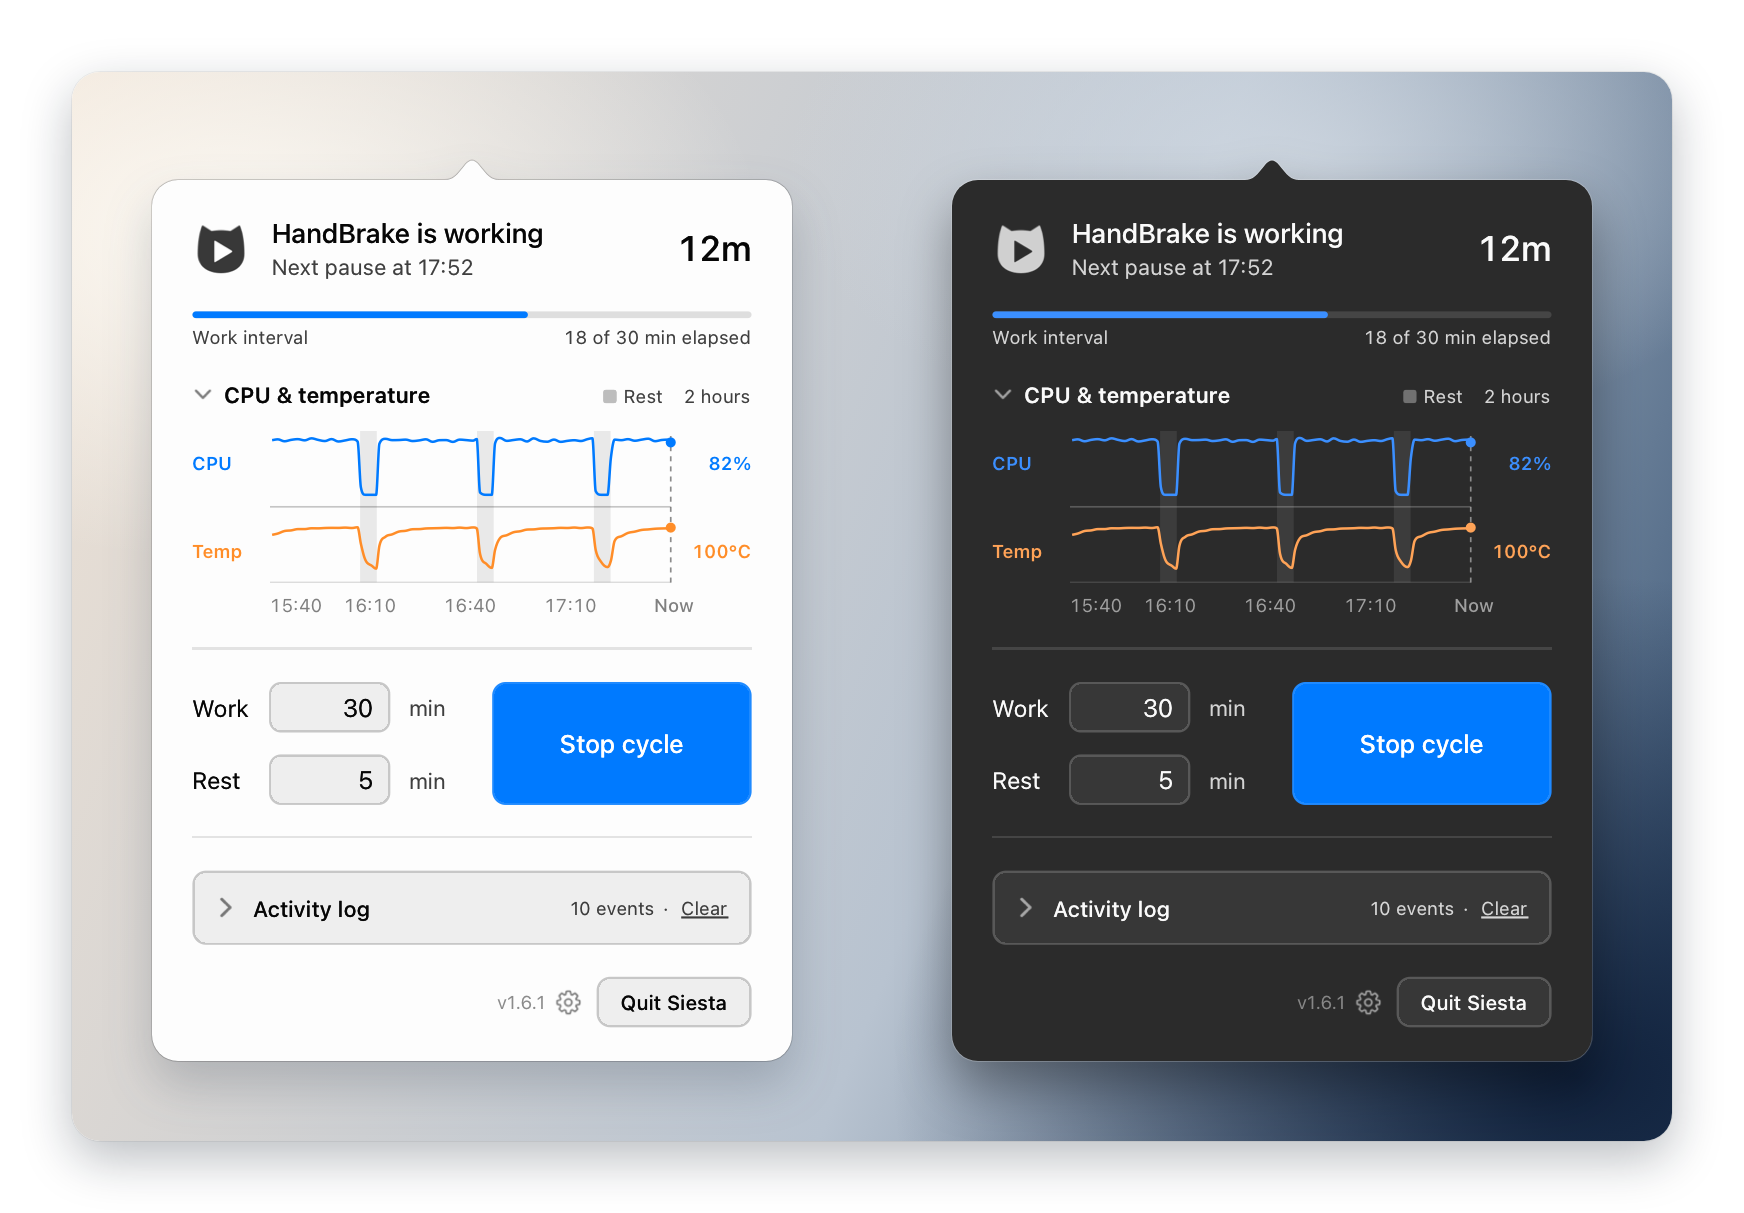
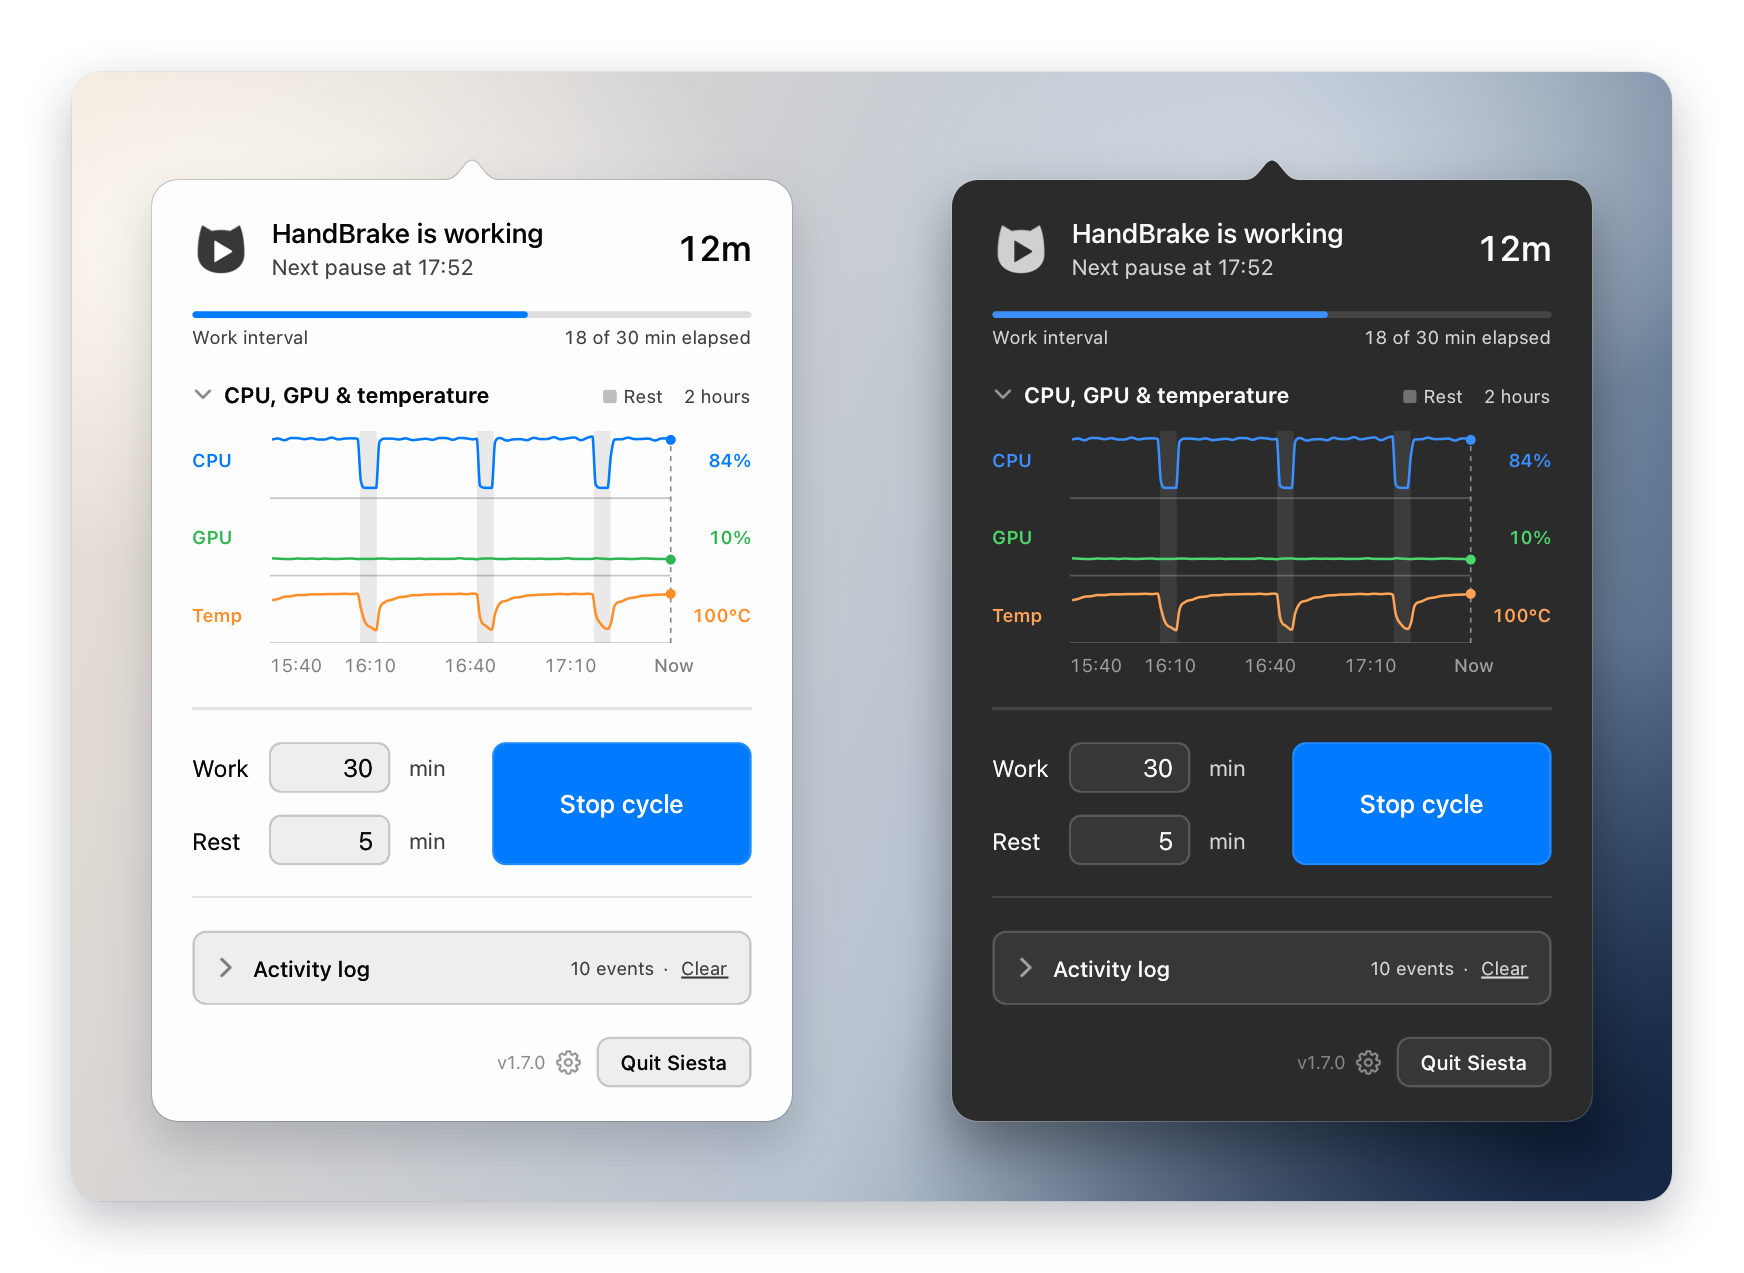
Menu bar: 10 pt before each reading, also after the cat; README: GPU in the chart, the menu bar and the settings, images with the GPU lane, magnetic edges

diff --git a/Sources/main.swift b/Sources/main.swift
@@ -3056,12 +3056,13 @@ final class App: NSObject, NSApplicationDelegate, NSTextFieldDelegate {
 
     // The menu bar item is one template image, so macOS tints it like any menu bar icon: the cat,
     // the countdown in the menu bar font, then each reading as Stats shows it — a small caption over
-    // the value, left aligned. Every gap is measured on the ink, not on the boxes: 7 pt after the cat,
-    // 11 pt between the items (as Stats spaces its own), and after the last one the same margin the cat has on its left.
+    // the value, left aligned. Every gap is measured on the ink, not on the boxes: 7 pt between the cat and the
+    // countdown, 10 pt before each reading (as Stats spaces its own), and after the last one the same margin the cat has on its left.
     // A column keeps room for two digits (the temperature for three), so the item only widens at 100%.
     static let menuBarHeight: CGFloat = 22, catSize: CGFloat = 20
-    /// Ink after the cat; between the items (the countdown and each reading) a wider gap, as Stats keeps.
-    static let menuBarGap: CGFloat = 7, menuBarItemGap: CGFloat = 11
+    /// Ink after the cat when the countdown follows it (the two read as one icon); before a reading,
+    /// after the cat as between the items, the wider gap Stats keeps.
+    static let menuBarGap: CGFloat = 7, menuBarItemGap: CGFloat = 10
     /// Horizontal ink of a line of text, from its drawing origin.
     static func inkX(_ a: NSAttributedString) -> (min: CGFloat, max: CGFloat) {
         let b = CTLineGetBoundsWithOptions(CTLineCreateWithAttributedString(a), .useGlyphPathBounds)
@@ -3113,7 +3114,7 @@ final class App: NSObject, NSApplicationDelegate, NSTextFieldDelegate {
         var cursor = catInk.max   // right edge of the ink so far
         var origins: [CGFloat] = []
         for (n, item) in items.enumerated() {
-            let x = cursor + (n == 0 ? menuBarGap : menuBarItemGap) - item.ink.min
+            let x = cursor + (n == 0 && time != nil ? menuBarGap : menuBarItemGap) - item.ink.min
             origins.append(x)
             cursor = x + item.ink.max
         }

diff --git a/README.md b/README.md
@@ -15,7 +15,7 @@ Siesta counts the minutes the encoder has **actually** been working, then pauses
 <picture>
   <source media="(prefers-color-scheme: dark)" srcset="Resources/siesta-hero-dark.webp">
   <source media="(prefers-color-scheme: light)" srcset="Resources/siesta-hero-light.webp">
-  <img src="Resources/siesta-hero-dark.webp" alt="Siesta in the macOS menu bar: HandBrake is working, with 12 minutes until the next pause, 18 of 30 work minutes elapsed, and recent CPU and temperature history">
+  <img src="Resources/siesta-hero-dark.webp" alt="Siesta in the macOS menu bar: HandBrake is working, with 12 minutes until the next pause, 18 of 30 work minutes elapsed, and recent CPU, GPU and temperature history">
 </picture>
 
 <br>
@@ -51,24 +51,26 @@ Clicking the menu bar icon opens a popover with the current state and a countdow
 You can change Work and Rest while the cycle runs: the new value applies as soon as you confirm it with Return, Tab or a click elsewhere, and the change appears in the activity log. In the two fields, the ↑ and ↓ keys step the value by one minute, by ten with Shift. **Stop cycle** stops Siesta's cycle, never the encoder.
 
 <a href="Resources/siesta-interface-compact.webp">
-  <img src="Resources/siesta-interface-compact.webp" alt="Compact Siesta popover in light and dark mode, with the graph collapsed to live CPU and temperature readings">
+  <img src="Resources/siesta-interface-compact.webp" alt="Compact Siesta popover in light and dark mode, with the graph collapsed to live CPU, GPU and temperature readings">
 </a>
 
 <br>
 
 ## See the cycle unfold
-#### Open the graph to follow CPU load, temperature and scheduled rests.
+#### Open the graph to follow CPU and GPU load, temperature and scheduled rests.
 
-Expand **CPU & temperature** to see the recent history. The blue line is the encoder's CPU usage as a share of the whole Mac, from 0% to 100%; the orange line is the hottest CPU core. The shaded bands mark scheduled rests: CPU usage falls while the worker is paused, and the temperature line shows how the Mac responds.
+Expand **CPU, GPU & temperature** to see the recent history. The blue line is the encoder's CPU usage as a share of the whole Mac, from 0% to 100%; the green line is the GPU usage of the whole Mac, as the graphics driver reports it; the orange line is the hottest CPU core. The shaded bands mark scheduled rests: CPU usage falls while the worker is paused, and the temperature line shows how the Mac responds.
 
-The chart starts with a five-minute view, grows with the session, and then keeps a rolling six-hour history. Hovering over the plot shows the readings and the time of that moment; near the edge of a rest band the readout snaps to the moment the rest began or ended. When there are more readings than pixels the lines are drawn as smooth curves, never across the start or end of a rest. Pinch on the trackpad or use the mouse wheel over the plot to zoom around the cursor, down to one minute and never beyond the recorded history. Scroll sideways with two fingers, or drag the plot, to move back and forth in time; a chevron at the right edge means newer data is waiting and clicking it jumps back to now, while the one at the left edge jumps to the start of the history, both keeping the current zoom. The legend at the top right always shows how much time the view spans; after zooming or moving, a small reload icon next to it, or a double-click on the plot, returns to the automatic view.
+The GPU line covers every app, not just HandBrake, so it never drops to zero: the desktop alone keeps it around 10–15%. HandBrake's software encoders (x264, x265, SVT-AV1) run on the CPU and leave it there, and so do the VideoToolbox encoders, which use the Mac's dedicated media engine; macOS does not report that engine's load without administrator rights. The line climbs when HandBrake runs its filters on the GPU, as it does with a VideoToolbox encoder and hardware decoding: in my tests, scaling, deinterlacing and rotating a 1080p file kept the GPU near 80%.
+
+The chart starts with a five-minute view, grows with the session, and then keeps a rolling six-hour history. Hovering over the plot shows the readings and the time of that moment; near the edge of a rest band the readout snaps to the moment the rest began or ended, and near the dotted lines of a cut (see below) to the moment work stopped or resumed. When there are more readings than pixels the lines are drawn as smooth curves, never across the start or end of a rest. Pinch on the trackpad or use the mouse wheel over the plot to zoom around the cursor, down to one minute and never beyond the recorded history. Scroll sideways with two fingers, or drag the plot, to move back and forth in time; a chevron at the right edge means newer data is waiting and clicking it jumps back to now, while the one at the left edge jumps to the start of the history, both keeping the current zoom. The legend at the top right always shows how much time the view spans; after zooming or moving, a small reload icon next to it, or a double-click on the plot, returns to the automatic view.
 
 Siesta keeps recording while the cycle is stopped, so the chart also shows what HandBrake did before you pressed Start. With **Hold the chart while idle** turned on in the settings, the stretches in which HandBrake is not working are cut out instead: the chart stops scrolling, and when the work resumes two dotted lines with a narrow gap between them mark the cut. The time axis and the hover readout keep showing the real time on both sides.
 
-Collapse the chart with the chevron next to its title and the header keeps showing the current CPU and temperature readings, as in the compact view above, just the current readings. Siesta remembers whether you left the chart and the log open or closed.
+Collapse the chart with the chevron next to its title and the current CPU, GPU and temperature readings take the place of the title, as in the compact view above. Siesta remembers whether you left the chart and the log open or closed.
 
 <a href="Resources/siesta-interface-expanded.webp">
-  <img src="Resources/siesta-interface-expanded.webp" alt="Siesta popover in light and dark mode, with a 30-minute work interval, 12 minutes until the next rest, and the graph expanded to show CPU, temperature and shaded rest periods">
+  <img src="Resources/siesta-interface-expanded.webp" alt="Siesta popover in light and dark mode, with a 30-minute work interval, 12 minutes until the next rest, and the graph expanded to show CPU, GPU, temperature and shaded rest periods">
 </a>
 
 <br>
@@ -79,7 +81,7 @@ Collapse the chart with the chevron next to its title and the header keeps showi
 Drag the popover by its header, or by any empty spot between its blocks, and it lifts off the menu bar: it widens as it follows the pointer and, where you let go, becomes a regular window that floats above your other apps, handy when you want to keep an eye on a long queue without reopening the popover. It holds exactly the same panel, with a little more room for the activity log, and it reopens where you left it. Here the chart is collapsed and **Activity log** is expanded, showing recent pauses and resumes. The button at the right of the title bar takes the panel back to the menu bar, and **Open the panel as** in the settings chooses which of the two the cat opens.
 
 <a href="Resources/siesta-interface-detached.webp">
-  <img src="Resources/siesta-interface-detached.webp" alt="Detached Siesta window in light and dark mode during a five-minute rest, with current CPU and temperature readings and the expanded activity log">
+  <img src="Resources/siesta-interface-detached.webp" alt="Detached Siesta window in light and dark mode during a five-minute rest, with current CPU, GPU and temperature readings and the expanded activity log">
 </a>
 
 <br>
@@ -89,9 +91,9 @@ Drag the popover by its header, or by any empty spot between its blocks, and it 
 
 The gear next to the version number slides the panel over to the settings page; the back chevron or Esc slides it back. Every change applies at once.
 
-- **General.** Open Siesta at login, follow the system appearance or force light or dark, open the panel as a popover or as a window, and choose what the menu bar shows next to the cat: the countdown, the encoder's CPU usage and the hottest core's temperature, in any combination.
+- **General.** Open Siesta at login, follow the system appearance or force light or dark, open the panel as a popover or as a window, and choose what the menu bar shows next to the cat: the countdown, the encoder's CPU usage, the GPU usage and the hottest core's temperature, in any combination.
 - **Cycle.** **Start automatically** starts the cycle as soon as HandBrake starts working, so a queue launched in a hurry still gets its rests. **Save the activity log to a file** keeps a copy of every log line in `~/Library/Logs/Siesta/Siesta.log`, with a link that shows it in the Finder.
-- **Chart.** Smooth curves, magnetic edges (rest bands and breaks pull the hover readout), and Hold the chart while idle, described above.
+- **Chart.** Smooth curves, magnetic edges (rest bands and the dotted lines of a cut pull the hover readout), and Hold the chart while idle, described above.
 - **Updates.** Check for new releases automatically, install them automatically, or check now.
 
 <a href="Resources/siesta-interface-settings.webp">
@@ -167,7 +169,6 @@ kill -CONT $(pgrep -x HandBrakeXPCService)
 A few things I would like Siesta to do, in no particular order and with no dates attached:
 
 - **More apps.** Profiles for other long-running jobs, such as Tdarr or Topaz Video AI, chosen from a list of running programs.
-- **GPU in the chart.** Alongside CPU and temperature, where it says something meaningful about the encode.
 - **A thermal mode.** Rest when the chip has been above a chosen temperature for a while, instead of after a fixed number of minutes.
 
 Smaller refinements will arrive along the way.
